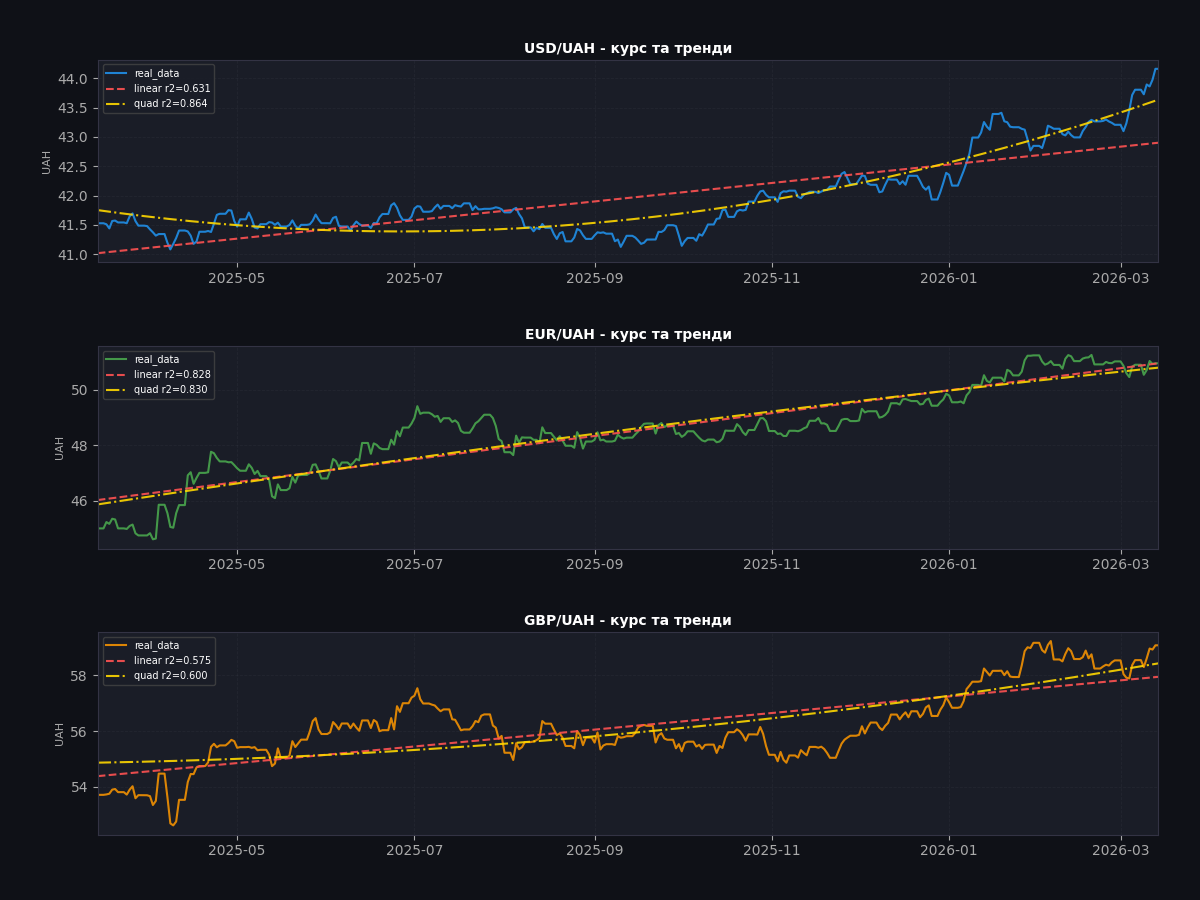
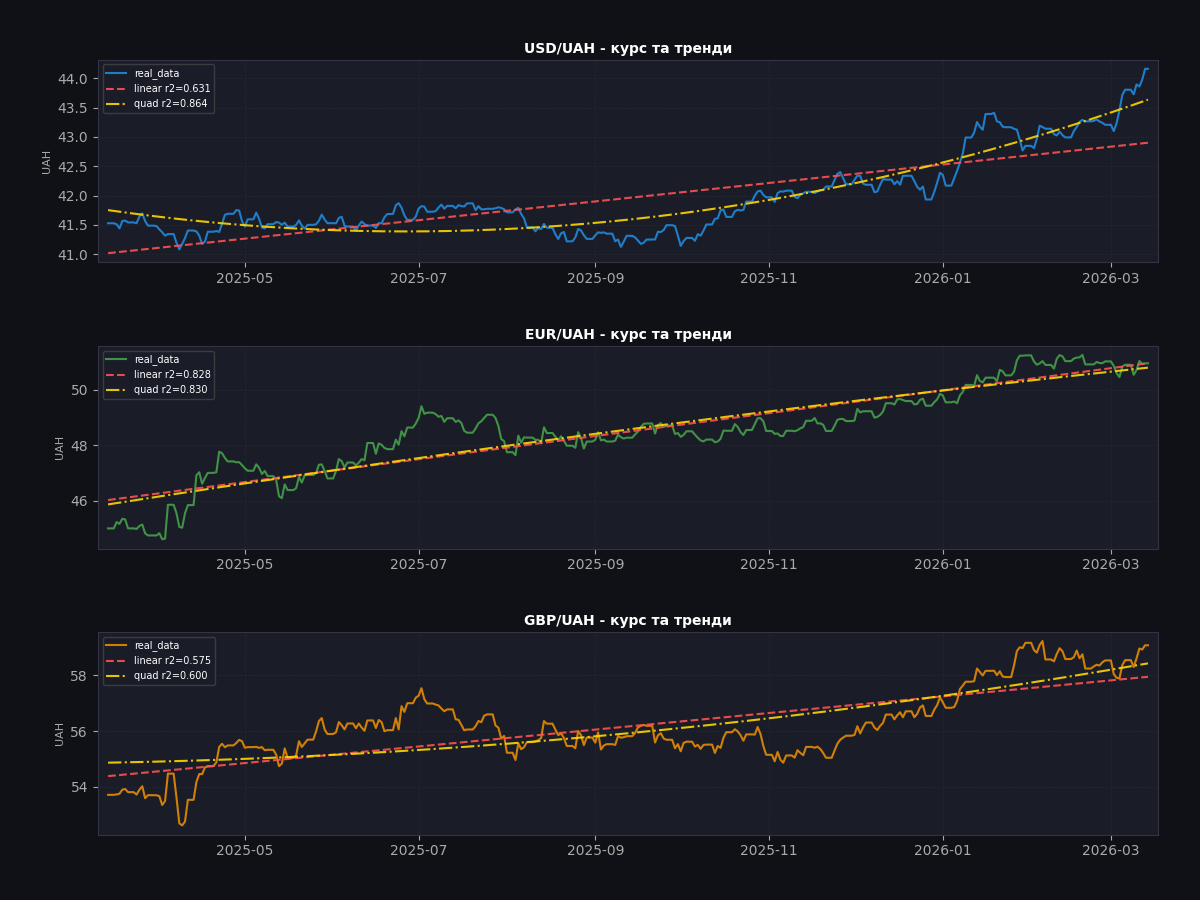
add residuals and real/synth plots

diff --git a/main.py b/main.py
@@ -11,6 +11,7 @@ def main():
     CURRENCIES = ["USD", "EUR", "GBP"]
     DAYS_BACK = 365
     OUTPUT_CSV = "outputs/nbu_exchange_rates.csv"
+    COLORS = {"USD": "#2196F3", "EUR": "#4CAF50", "GBP": "#FF9800"}
 
     # df = parse_nbu_data(currencies=CURRENCIES, days_back=DAYS_BACK)
 
@@ -47,7 +48,9 @@ def main():
         print(f"Різниця mean:   {abs(st_real["mean"] - st_synth["mean"]):.3f} UAH")
         print(f"Різниця std:    {abs(st_real["std"] - st_synth["std"]):.3f} UAH")
 
-    plot_currency_trends(df, trends, "outputs/currency_trends.png", CURRENCIES)
+    plot_currency_trends(df, trends, "outputs/currency_trends.png", CURRENCIES, COLORS)
+    plot_residuals(df, "outputs/residuals.png", trends, CURRENCIES, COLORS)
+    plot_real_synth_comparison(df, synthetics, "outputs/real_synth.png", CURRENCIES, COLORS)
 
 
 def fetch_nbu_rate(currency: str, date: datetime):
@@ -182,9 +185,7 @@ def kolmogorov_smirnov_test(real: np.ndarray, synth: np.ndarray, label: str):
     print(f"KS-test [{label}]: D={ks_stats:.6f} p={p_val:.6f} - {verdict}")
 
 
-def plot_currency_trends(df: pd.DataFrame, trends: dict, output_path: str, currencies: list):
-    COLORS = {"USD": "#2196F3", "EUR": "#4CAF50", "GBP": "#FF9800"}
-
+def plot_currency_trends(df: pd.DataFrame, trends: dict, output_path: str, currencies: list, colors: dict):
     n_cur = len(currencies)
     fig, axes = plt.subplots(n_cur, 1, figsize=(12, 9), facecolor="#0F1117")
 
@@ -195,20 +196,76 @@ def plot_currency_trends(df: pd.DataFrame, trends: dict, output_path: str, curre
         y = df[cur].values
         tr = trends[cur]
 
-        ax.plot(dates, y, color=COLORS[cur], alpha=0.85, label="real_data")
-        ax.plot(dates, tr["y_linear"], "--", color="#FF5252", alpha=0.9, label=f"linear r2={tr["r2_linear"]:.3f}")
-        ax.plot(dates, tr["y_quad"], "-.", color="#FFD700", alpha=0.9, label=f"quad r2={tr["r2_quad"]:.3f}")
-
-        # ax.set_xlim(dates.min(), dates.max())
-        ax.margins(x=0)
+        ax.plot(dates, y, color=colors[cur], alpha=0.8, label="real_data")
+        ax.plot(dates, tr["y_linear"], linestyle="--", color="#FF5252", alpha=0.9, label=f"linear r2={tr["r2_linear"]:.3f}")
+        ax.plot(dates, tr["y_quad"], linestyle="-.", color="#FFD700", alpha=0.9, label=f"quad r2={tr["r2_quad"]:.3f}")
 
         ax_style(ax, f"{cur}/UAH - курс та тренди")
         ax.set_ylabel("UAH", color="#AAAAAA", fontsize=8)
-        ax.legend(fontsize=7, facecolor="#1A1D27", edgecolor="#444444", labelcolor="#FFFFFF", loc="upper left")
+        # ax.legend(fontsize=7, facecolor="#1A1D27", edgecolor="#444444", labelcolor="#FFFFFF", loc="upper left")
     
     plt.tight_layout(pad=3)
     plt.savefig(output_path)
     plt.show()
+    print(f"Currency trends were saved to {output_path}.")
+
+
+def plot_residuals(df: pd.DataFrame, output_path: str, trends: dict, currencies: list, colors: dict):
+    n_cur = len(currencies)
+    fig, axes = plt.subplots(n_cur, 1, figsize=(12, 9), facecolor="#0F1117")
+    
+    dates = pd.to_datetime(df["date"])
+
+    for i, cur in enumerate(currencies):
+        ax = axes[i]
+        resid = df[cur].values - trends[cur]["y_quad"]
+
+        ax.bar(dates, resid, width=1.5, color=colors[cur], alpha=0.7)
+
+        ax.axhline(0, color="#FFFFFF", linewidth=0.8, alpha=0.5)
+        
+        sigma = np.std(resid)
+        ax.axhline(sigma, linestyle="--", color="#FF5252", linewidth=1, alpha=0.8, label=f"+sigma ({sigma:.3f})")
+        ax.axhline(-sigma, linestyle="--", color="#FF5252", linewidth=1, alpha=0.8, label=f"-sigma ({-sigma:.3f})")
+
+        ax_style(ax, f"{cur} - residuals (real - quad trend)")
+        ax.set_ylabel("delta UAH", color="#AAAAAA", fontsize=8)
+    
+    plt.tight_layout(pad=3)
+    plt.savefig(output_path)
+    plt.show()
+    print(f"Residuals were saved to {output_path}.")
+
+
+def plot_real_synth_comparison(df: pd.DataFrame, synthetics: dict, output_path: str, currencies: list, colors: dict):
+    n_cur = len(currencies)
+    fig, axes = plt.subplots(n_cur, 1, figsize=(12, 9), facecolor="#0F1117")
+
+    dates = pd.to_datetime(df["date"])
+
+    for i, cur in enumerate(currencies):
+        ax = axes[i]
+        y_real = df[cur].values
+        y_synth = synthetics[cur]
+
+        ax.plot(dates, y_real, color=colors[cur], linewidth=1.2, alpha=0.85, label="real")
+        ax.plot(dates, y_synth, color="#E040FB", linewidth=1, alpha=0.75, linestyle="--", label="synth")
+
+        ax_style(ax, f"{cur} - real vs. synth")
+        ax.set_ylabel("UAH", color="#AAAAAA", fontsize=8)
+    
+    plt.tight_layout(pad=3)
+    plt.savefig(output_path)
+    plt.show()
+    print(f"real vs synth plot was saved to {output_path}.")
+
+
+def plot_histograms():
+    pass
+
+
+def plot_qq():
+    pass
 
 
 def ax_style(ax, title=""):
@@ -218,6 +275,8 @@ def ax_style(ax, title=""):
         spine.set_edgecolor("#333344")
     if title:
         ax.set_title(title, color="#FFFFFF", fontsize=10, fontweight="bold", pad=5)
+    ax.margins(x=0.01)
+    ax.legend(fontsize=7, facecolor="#1A1D27", edgecolor="#444444", labelcolor="#FFFFFF", loc="upper left")
     ax.grid(linestyle="--", color="#555566", alpha=0.15, linewidth=0.6)
 
 
